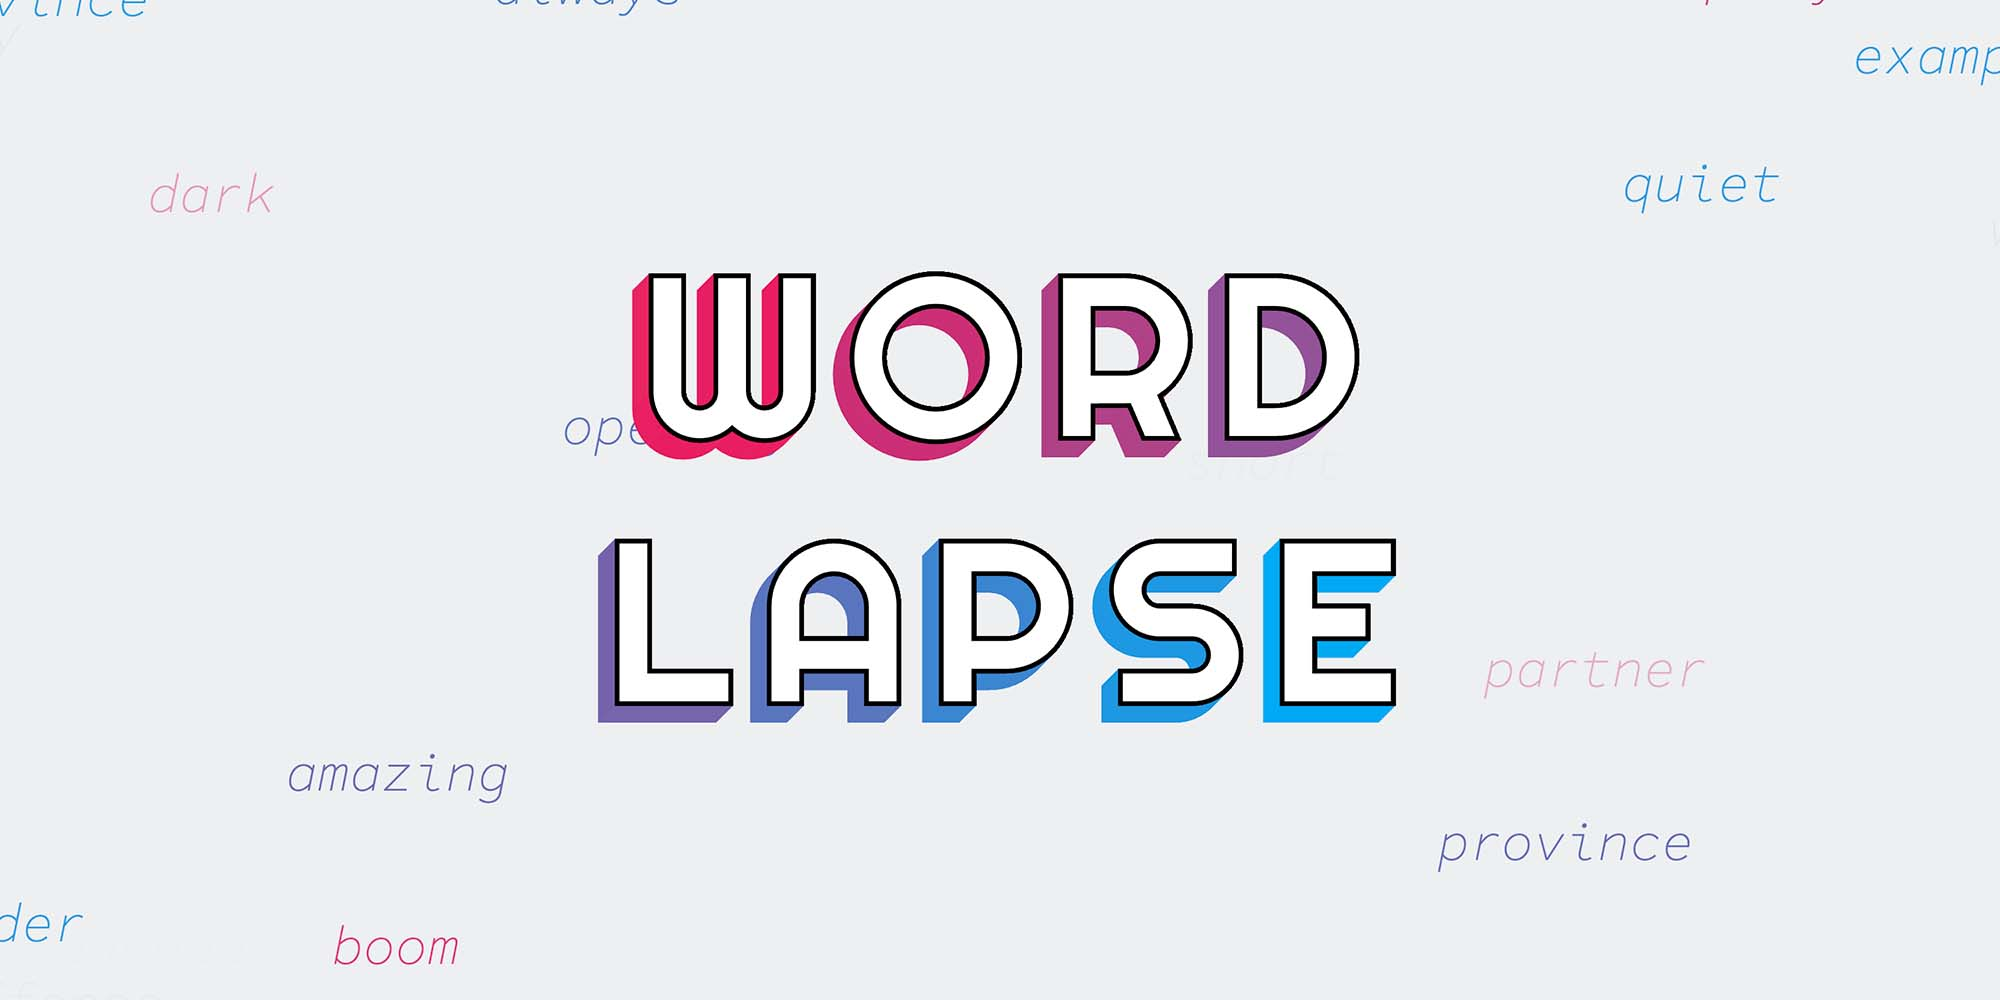
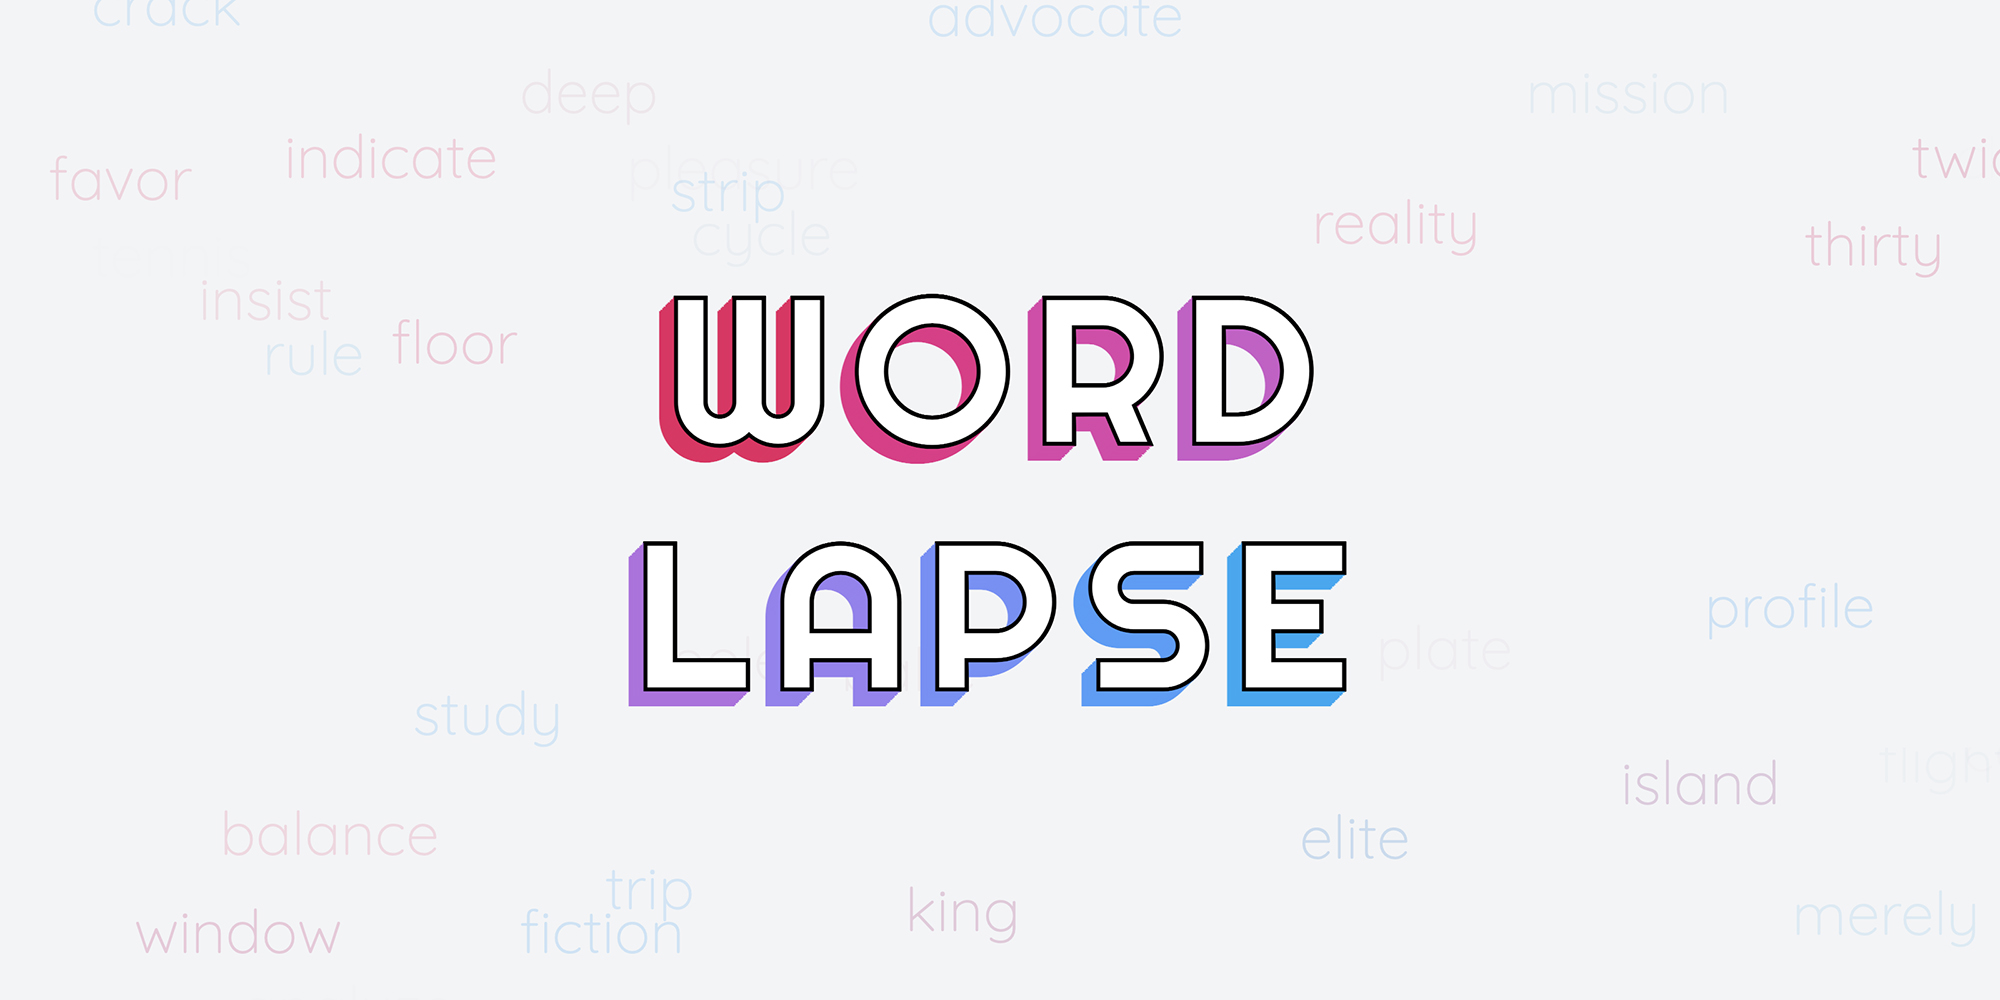
Misc fixes (#58)
- update share thumbnail to new graphics
- css tweaks
- use dominant-baseline instead of alignment-baseline (not supported in firefox)
- font sizes as pixels explicitly (firefox gets confused sometimes without, treats plain number as pt instead of px)
- remove hard-coded title svg aspect-ratio prop for safari bug, and instead fix problem at source (parent flex alignment)
- add back in subtle and performant title animation

diff --git a/app/src/components/Title.js b/app/src/components/Title.js
@@ -1,4 +1,3 @@
-import { Fragment } from "react";
 import { range } from "lodash";
 import { blendColors } from "../util/math";
 import { red, blue } from "../palette";
@@ -44,15 +43,20 @@ const Title = () => (
         key={index}
         viewBox={[-width / 2, -height / 2, width, height].join(" ")}
         aria-hidden="true"
-        style={{ aspectRatio: width + " / " + height }}
       >
         {word.map(({ char, color, x, id }, index) => (
-          <Fragment key={index}>
-            <Filter id={id} color={color} />
-            <text key={index} x={x} y="1" filter={`url(#drop-shadow-${id})`}>
+          <g key={index} style={{ "--color": color }}>
+            <Filter id={id} />
+            <text
+              key={index}
+              x={x}
+              y="1"
+              filter={`url(#drop-shadow-${id})`}
+              style={{ animationDelay: id * 0.2 + "s" }}
+            >
               {char}
             </text>
-          </Fragment>
+          </g>
         ))}
       </svg>
     ))}
@@ -62,7 +66,7 @@ const Title = () => (
 export default Title;
 
 // drop shadow filter
-const Filter = ({ id, color }) => {
+const Filter = ({ id }) => {
   // number of layers
   const layers = 10;
   // length of shadow
@@ -83,7 +87,7 @@ const Filter = ({ id, color }) => {
           in="SourceGraphic"
           dx={-(length * (n + 1)) / layers}
           dy={(length * (n + 1)) / layers}
-          floodColor={color}
+          floodColor="var(--color)"
           floodOpacity="1"
           x="-100%"
           y="-100%"

diff --git a/app/src/charts/Trajectory.js b/app/src/charts/Trajectory.js
@@ -134,7 +134,12 @@ const Trajectory = () => {
             className="year"
             style={{ animationDelay: index * 0.1 + "s" }}
           >
-            <text x={x} y={y - 10} textAnchor="middle" style={{ fontSize: 10 }}>
+            <text
+              x={x}
+              y={y - 10}
+              textAnchor="middle"
+              style={{ fontSize: "10px" }}
+            >
               {year}
             </text>
             <circle
@@ -175,7 +180,7 @@ const Trajectory = () => {
                       "<br/>"
                     )}
                     style={{
-                      fontSize: 8,
+                      fontSize: "8px",
                       fill: blendColors(red, blue, index / (array.length - 1)),
                     }}
                   >
@@ -188,7 +193,7 @@ const Trajectory = () => {
           </g>
         ))}
 
-        <text x="0" y="-45" textAnchor="middle" style={{ fontSize: 10 }}>
+        <text x="0" y="-45" textAnchor="middle" style={{ fontSize: "10px" }}>
           Top {top} associated words in each year
         </text>
 
@@ -196,7 +201,7 @@ const Trajectory = () => {
           x="0"
           y="-60"
           textAnchor="middle"
-          style={{ fontSize: 12, fontWeight: 600 }}
+          style={{ fontSize: "12px", fontWeight: 600 }}
         >
           Trajectory of "{search}" over time
         </text>

diff --git a/app/src/charts/Frequency.js b/app/src/charts/Frequency.js
@@ -149,9 +149,9 @@ const chart = (frequency, changepoints, frequencyIndex) => {
           -height / 2
         }) rotate(-90)`
     )
-    .style("font-size", "12")
+    .style("font-size", "12px")
     .attr("text-anchor", "middle")
-    .attr("alignment-baseline", "middle")
+    .attr("dominant-baseline", "middle")
     .attr("fill", purple)
     .text("Change point");
 
@@ -235,16 +235,16 @@ const Frequency = () => {
         <text
           transform={`translate(${width / 2}, 40)`}
           textAnchor="middle"
-          alignmentBaseline="middle"
-          style={{ fontSize: 12 }}
+          dominantBaseline="middle"
+          style={{ fontSize: "12px" }}
         >
           Year
         </text>
         <text
           transform={`translate(-40, -${height / 2}) rotate(-90)`}
           textAnchor="middle"
-          alignmentBaseline="middle"
-          style={{ fontSize: 12 }}
+          dominantBaseline="middle"
+          style={{ fontSize: "12px" }}
         >
           Frequency
         </text>
@@ -252,7 +252,7 @@ const Frequency = () => {
           x={width / 2}
           y={-height - 30}
           textAnchor="middle"
-          style={{ fontSize: 12, fontWeight: 600 }}
+          style={{ fontSize: "12px", fontWeight: 600 }}
         >
           How often "{search}" has been used over time
         </text>

diff --git a/app/src/charts/NeighborsCompare.js b/app/src/charts/NeighborsCompare.js
@@ -119,7 +119,7 @@ const NeighborsCompare = ({ setCompare, playing, setPlaying }) => {
           </text>
         ))}
 
-        <text x="0" y="-35" textAnchor="middle" style={{ fontSize: 10 }}>
+        <text x="0" y="-35" textAnchor="middle" style={{ fontSize: "10px" }}>
           <tspan>(or</tspan>{" "}
           <tspan fill={props.both.color}>
             {(symbols ? props.both.symbol + " " : "") + "both"}
@@ -135,7 +135,7 @@ const NeighborsCompare = ({ setCompare, playing, setPlaying }) => {
           x="0"
           y="-50"
           textAnchor="middle"
-          style={{ fontSize: 12, fontWeight: 600 }}
+          style={{ fontSize: "12px", fontWeight: 600 }}
         >
           Words associated with "{search}" in{" "}
           <tspan fill={props.a.color}>

diff --git a/app/src/charts/NeighborsSingle.js b/app/src/charts/NeighborsSingle.js
@@ -64,7 +64,7 @@ const NeighborsSingle = ({ setCompare, playing, setPlaying }) => {
                 key={index}
                 dx="10"
                 style={{
-                  fontSize: 10,
+                  fontSize: "10px",
                   fill: find(yearNeighbors, neighbor) ? blended : lightGray,
                 }}
                 data-tooltip={join(
@@ -84,7 +84,7 @@ const NeighborsSingle = ({ setCompare, playing, setPlaying }) => {
           x="0"
           y="-30"
           textAnchor="middle"
-          style={{ fontSize: 12, fontWeight: 600 }}
+          style={{ fontSize: "12px", fontWeight: 600 }}
         >
           Words associated with "{search}" in {year}
         </text>

diff --git a/app/src/components/Title.css b/app/src/components/Title.css
@@ -1,6 +1,8 @@
 .title {
   display: flex;
   flex-direction: column;
+  justify-content: center;
+  align-items: center;
   gap: 10px;
   text-decoration: none;
 }
@@ -19,7 +21,26 @@
   font-size: 25px;
   text-transform: uppercase;
   text-anchor: middle;
-  alignment-baseline: middle;
+  dominant-baseline: middle;
+}
+
+header[data-fullscreen="true"] .title text {
+  animation: shine 3s ease-in-out infinite;
+}
+
+@keyframes shine {
+  0% {
+    stroke: black;
+  }
+  20% {
+    stroke: var(--color);
+  }
+  40% {
+    stroke: black;
+  }
+  100% {
+    stroke: black;
+  }
 }
 
 header[data-fullscreen="false"] .title {

diff --git a/app/src/palette.js b/app/src/palette.js
@@ -22,7 +22,8 @@ const purple = blendColors("#000000", blendColors(red, blue, 0.5), 0.66);
 const lightPurple = blendColors("#ffffff", blendColors(red, blue, 0.5), 0.66);
 
 // effects
-const fast = "0.5s ease";
+const slow = "0.5s ease";
+const fast = "0.2s ease";
 
 // master list of variables
 export {
@@ -37,6 +38,7 @@ export {
   blue,
   purple,
   lightPurple,
+  slow,
   fast,
 };
 

diff --git a/app/src/util/dom.js b/app/src/util/dom.js
@@ -3,7 +3,7 @@ import { svgPathProperties } from "svg-path-properties";
 // set CSS variables
 export const setCssVariables = (variables) => {
   for (const [key, value] of Object.entries(variables))
-    window.root.style.setProperty(`--${key}`, value);
+    document.documentElement.style.setProperty(`--${key}`, value);
 };
 
 // download data as .svg file

diff --git a/app/src/api.js b/app/src/api.js
@@ -164,6 +164,9 @@ const getTagLink = (tag) => {
 
   // return html to show
   return link
-    ? `<a href="${link}" target="_blank">Metadata for ${tag}${extIcon}</a>`
+    ? `<a href="${link}" target="_blank">Metadata for ${tag.replaceAll(
+        "_",
+        " "
+      )}${extIcon}</a>`
     : "Unknown tag type";
 };

diff --git a/app/src/App.css b/app/src/App.css
@@ -38,7 +38,8 @@ svg {
 
 a {
   color: currentColor;
-  transition: color var(--purple);
+  text-underline-offset: 2px;
+  transition: color var(--fast);
 }
 
 a:hover {
@@ -56,4 +57,8 @@ svg :focus {
 
 .tippy-content {
   line-height: 1.6;
+}
+
+.tippy-content a:hover {
+  color: var(--lightPurple);
 }

diff --git a/app/src/components/Combobox.css b/app/src/components/Combobox.css
@@ -20,14 +20,6 @@
   min-width: 100%;
   max-width: 90vw;
   top: calc(100% + 5px);
-}
-
-header[data-fullscreen="true"] .dropdown {
-  left: 50%;
-  transform: translateX(-50%);
-}
-
-header[data-fullscreen="false"] .dropdown {
   right: 0;
 }
 

diff --git a/app/src/sections/Header.css b/app/src/sections/Header.css
@@ -10,7 +10,7 @@ header {
   background: var(--offWhite);
   text-align: center;
   z-index: 1;
-  transition: min-height var(--fast);
+  transition: min-height var(--slow);
 }
 
 header[data-fullscreen="false"] {
